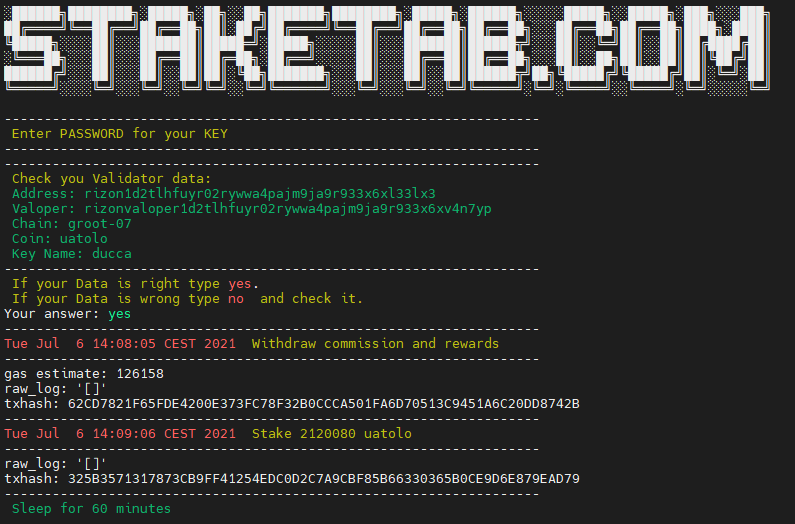
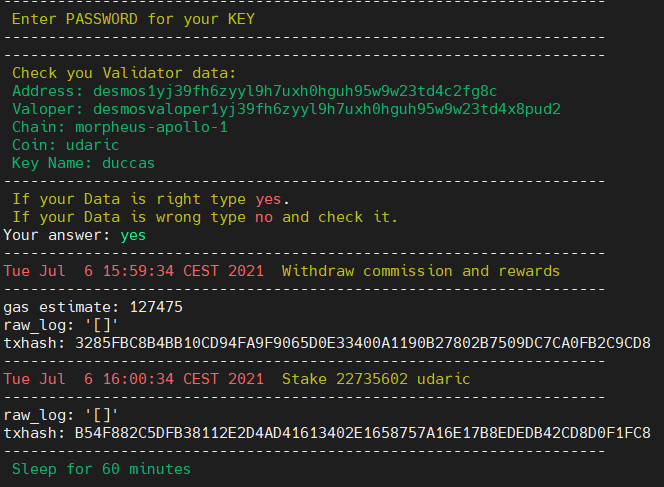
updated

Changed region(s): [[0.0, 0.0, 0.994, 0.9856]]

diff --git a/README.md b/README.md
@@ -41,7 +41,7 @@ wget https://raw.githubusercontent.com/Staketab/cosmos-tools/main/cosmovisor/cos
 # AUTO WITHDRAW AND DELEGATE SCRIPT.
 Install script for auto-withdraw-delegate rewards to your Validator every 60 minutes.  
 Specify environments in this line `./start.sh BINARY KEY_NAME`  
-Example `./start.sh rizond keyname`  
+Example `./start.sh desmos ducca`  
 
 ## If you have custom `RPC PORT` specify his at the end of line`./start.sh BINARY KEY_NAME RPC_PORT`  
 
@@ -53,7 +53,7 @@ And start this script:
 ```
 wget https://raw.githubusercontent.com/Staketab/cosmos-tools/main/auto-withdraw-delegate/start.sh \
 && chmod +x start.sh \
-&& ./start.sh rizond keyname rpc_port
+&& ./start.sh binary keyname rpc_port
 ```
 ## SCREENSHOT EXAMPLE: 
 ![alt_tag](scr/delegate.png)
